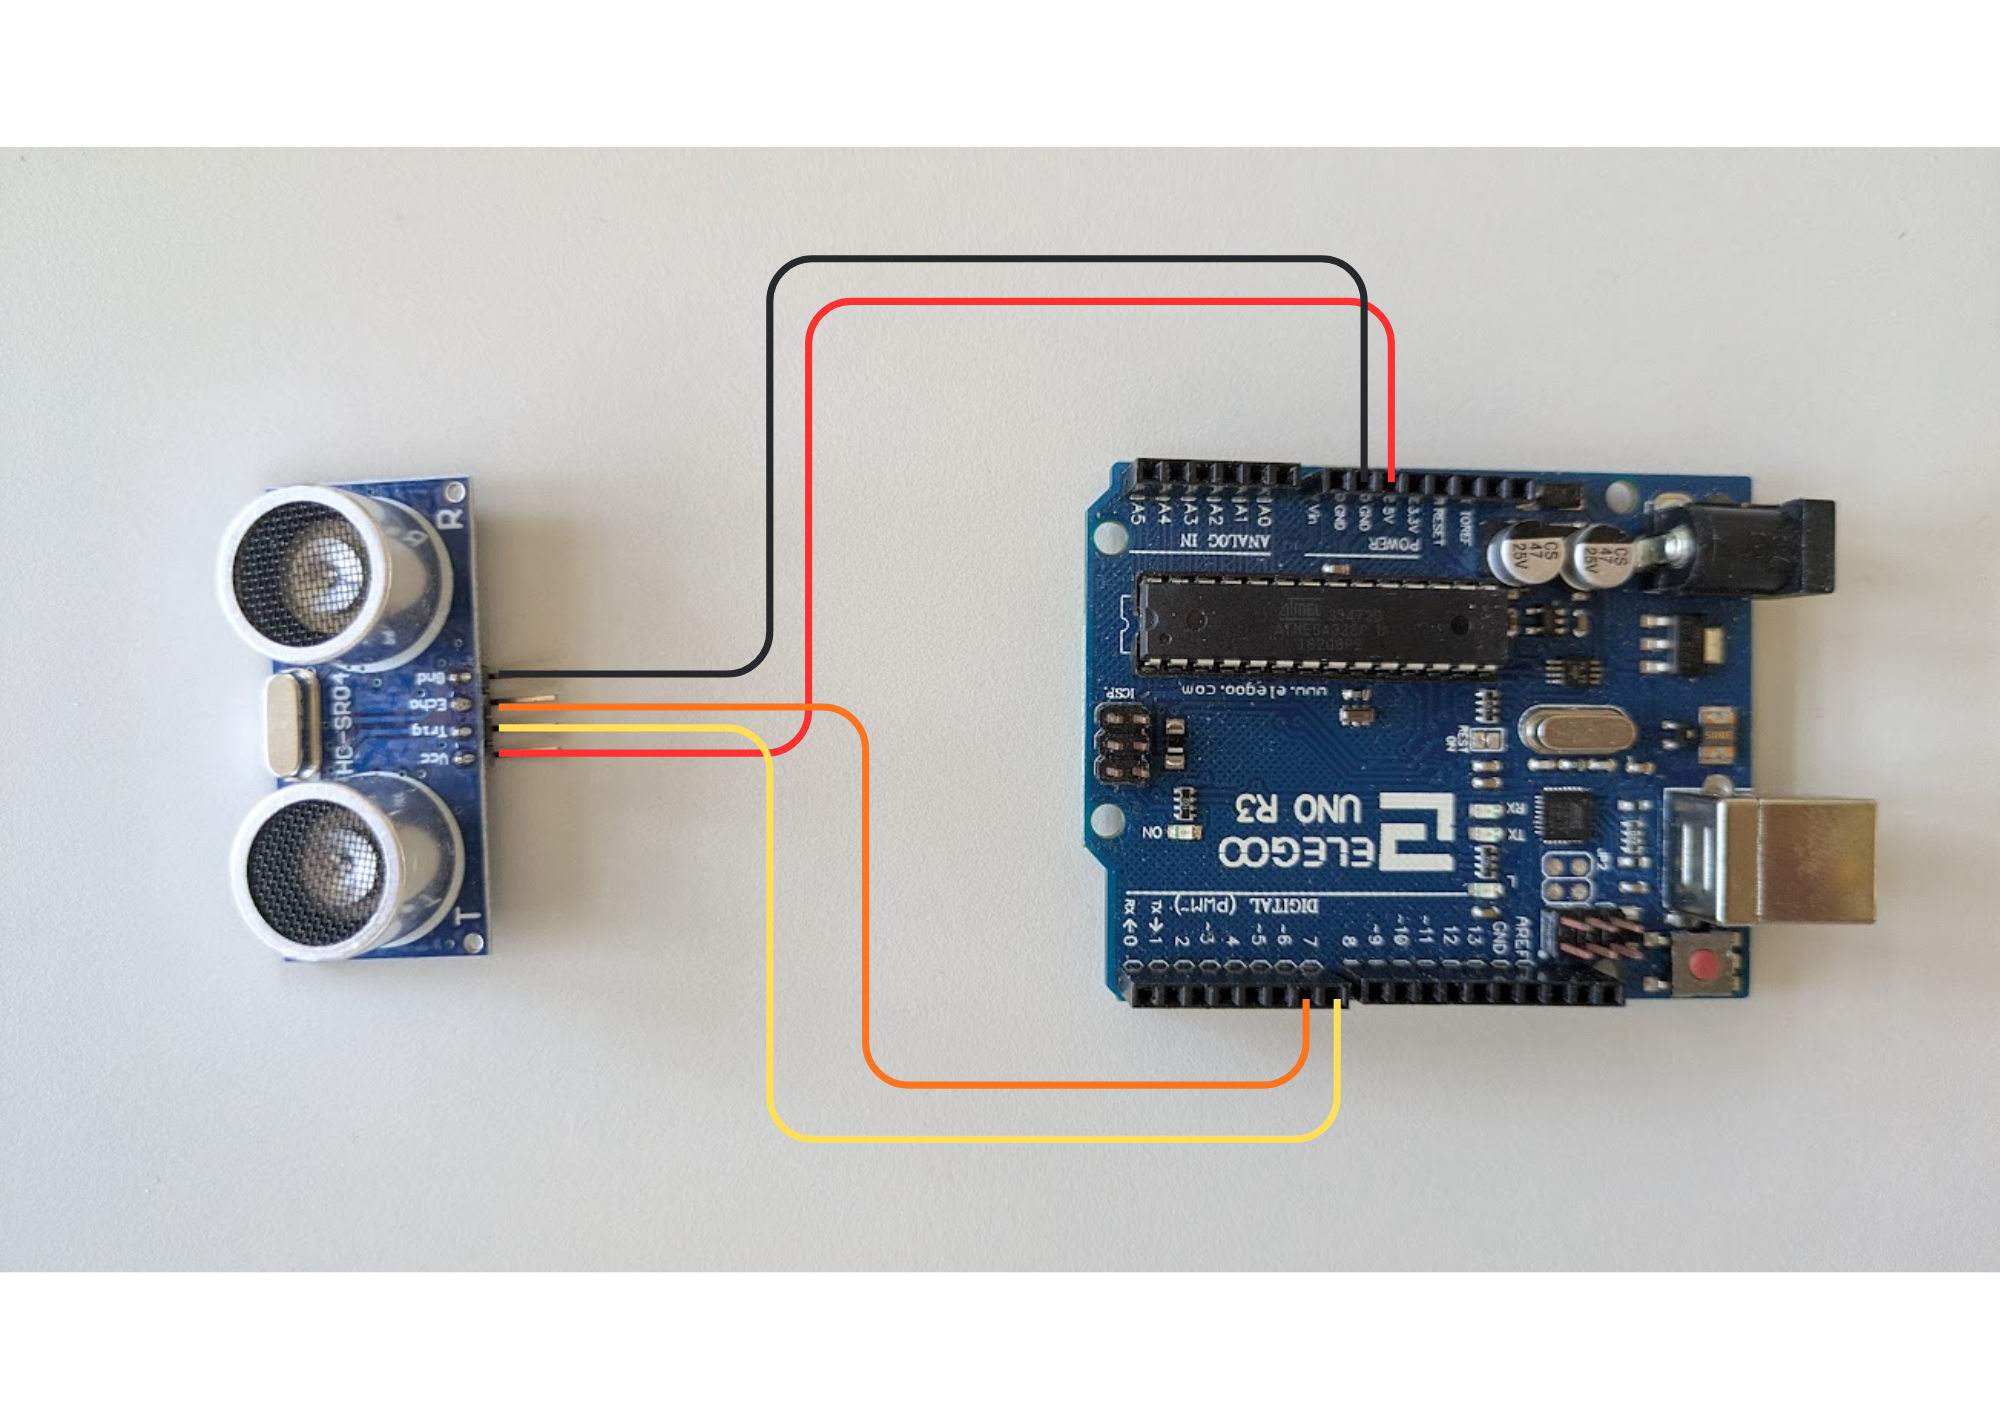
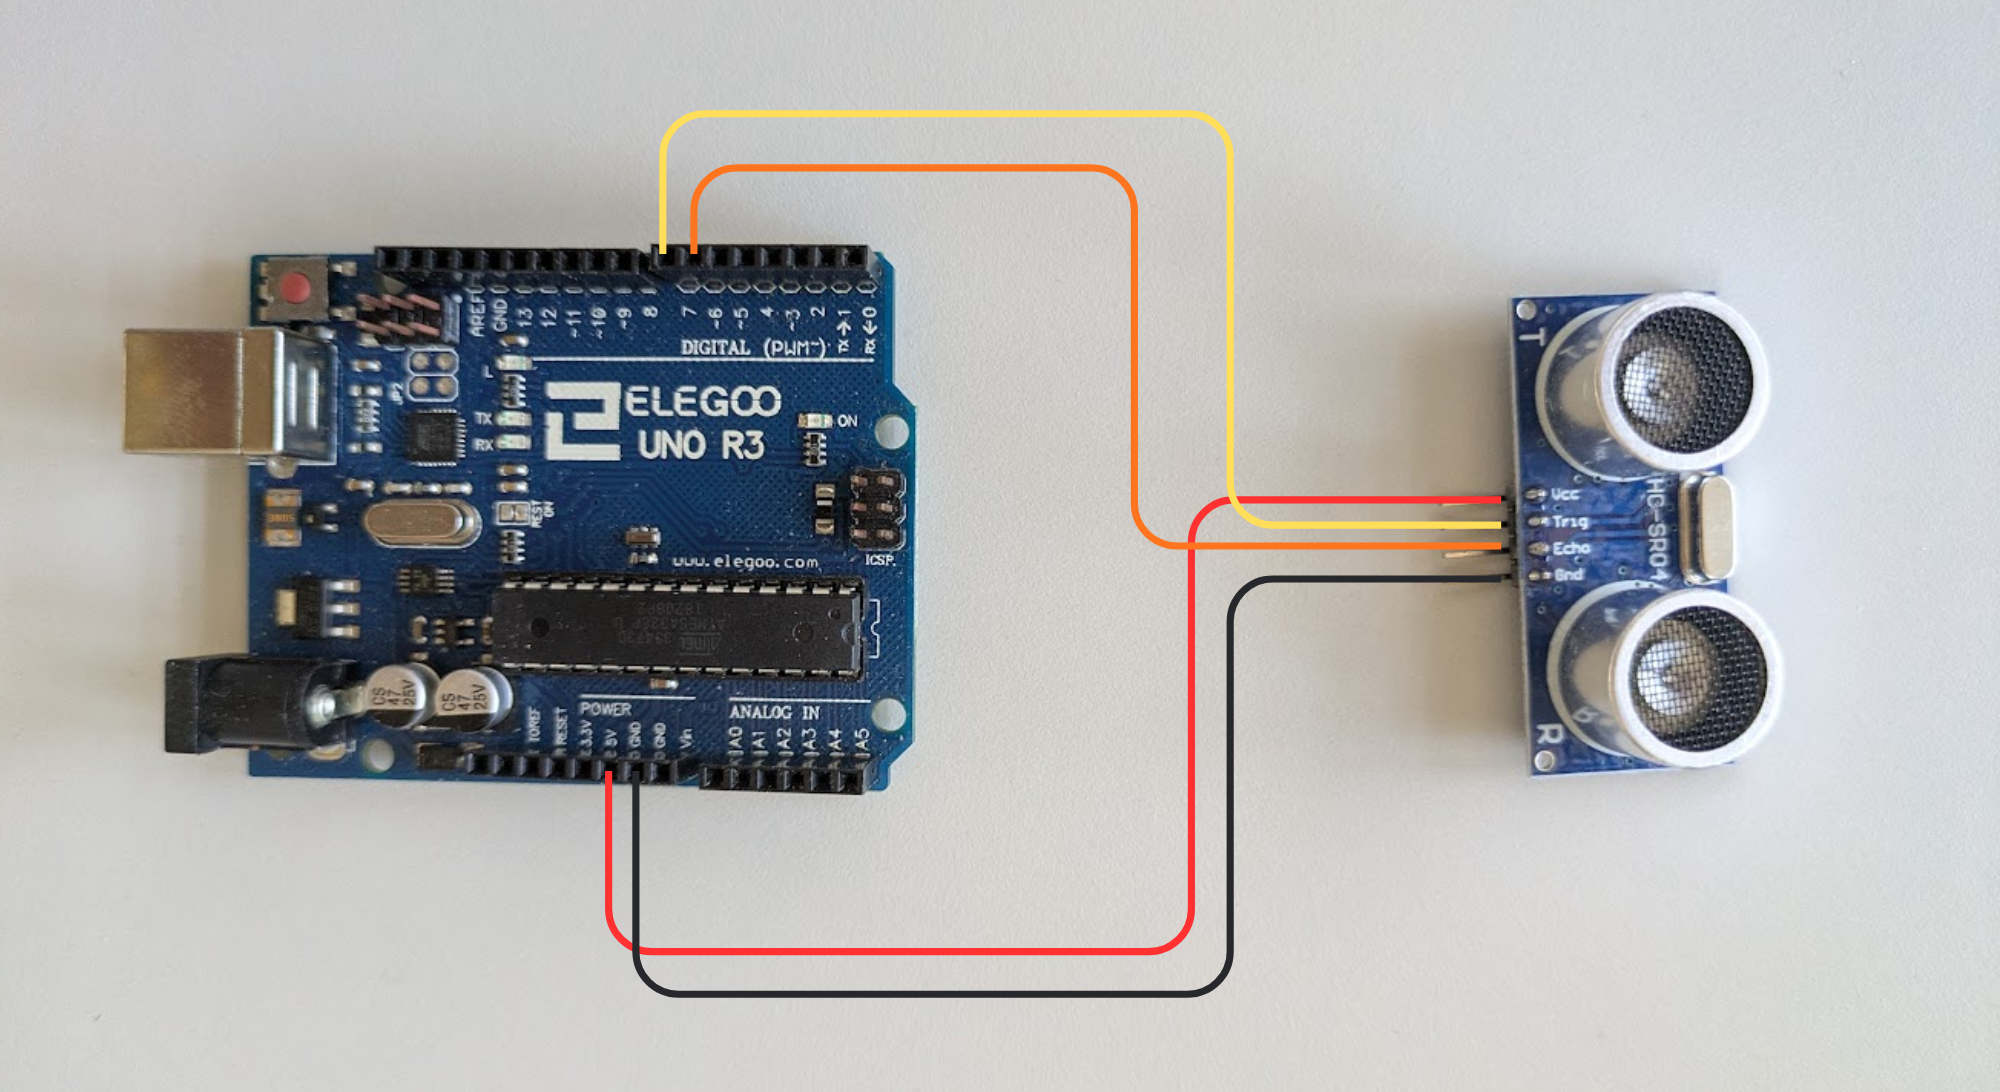
Improved Instruction

diff --git a/instructions.js b/instructions.js
@@ -3,28 +3,43 @@ let actualStep = 0;
 
 nextStepButtonClicked();
 
-function nextStepButtonClicked() {
+function previousStepButtonClicked() {
 
-    actualStep++;
+    if (actualStep > 1) {
+        actualStep--;
+        stepButtonClicked();
+    }
+}
+function nextStepButtonClicked(){
+    if(actualStep < 3){
+        actualStep++;
+        stepButtonClicked();
+    }
+}
+
+
+function stepButtonClicked() {
+
+    
 
     document.getElementById('actualStep').textContent = 'Schritt ' + actualStep;
 
     if (actualStep == 1) {
         document.getElementById('stepContentImage').innerHTML = '<img id="step1Image" src="img/instruction/step1.jpg" alt="Step 1 Image">';
-        document.getElementById('stepContentText').textContent = 'Verwendete Geräte: Funduino Uno, Ultraschallsensor HC-SR04.';
+        document.getElementById('stepContentText').innerHTML = '<h3>Verwendete Geräte:</h3><br><ul><li>Funduino Uno</li><li>Ultraschallsensor HC-SR04</li></ul>';
     }
     else if (actualStep == 2) {
         document.getElementById('stepContentImage').innerHTML = '<img id="step2Image" src="img/instruction/step2.png" alt="Step 2 Image">';
-        document.getElementById('stepContentText').textContent = 'Verbinde den Funduino mit dem Ultraschallsensor.';
+        document.getElementById('stepContentText').innerHTML = '<h3>Verbinde den Funduino mit dem Ultraschallsensor:</h3> <table><tr><th>Funduino</th><th>Ultraschallsensor</th></tr><tr><td>5V</td><td>VCC</td></tr><tr><td>GND</td><td>GND</td></tr><tr><td>D2</td><td>Trig</td></tr><tr><td>D3</td><td>ECHO</td></tr></table>';
     }
     else if (actualStep == 3) {
-        document.getElementById('stepContentImage').innerHTML = '';
-        document.getElementById('stepContentText').innerHTML = '<button id="flashButton" type="button" onclick="uploadFirmware()">Software flashen</button><p id="statusText" role="status">Bereit.</p><p>Lade nun die Software auf den Funduino hoch.</p>';
+        document.getElementById('stepContentImage').innerHTML = '<img id="step3Image" src="img/instruction/step3.jpg" alt="Step 3 Image">';
+        document.getElementById('stepContentText').innerHTML = '<h3>Alles in das Gehäuse einbauen und Software flashen</h3><br><p>An den Laptop anschließen und den Button klicken:<br></p><button id="flashButton" type="button" onclick="uploadFirmware()">Software flashen</button><p id="statusText" role="status"></p>';
     }
     else {
         document.getElementById('stepContentImage').innerHTML = '';
-        document.getElementById('stepContentText').textContent = 'Fertig! Du kannst nun den MotionTracer verwenden.';
-        document.getElementById('nextStepButton').style.display = 'none';
+        document.getElementById('stepContentText').innerHTML = '<h3>Fertig!</h3><p>Du kannst nun den MotionTracer verwenden.</p>';
+        //document.getElementById('nextStepButton').style.display = 'none';
     }
 
 

diff --git a/mystyle.css b/mystyle.css
@@ -375,7 +375,7 @@
 
   /* --- FOOTER STYLES --- */
   footer {
-      margin-top: auto;
+    margin-top: auto;
     background-color: #f3c776;
     color: #000000;
     padding: 40px 20px 20px 20px;
@@ -458,9 +458,55 @@
 
   .stepContent img {
     display: block;
-    max-width: min(80vw, 70%);
-    max-height: min(80vh, 70%);
+    max-width: min(80vw, 30%);
+    max-height: min(80vh, 30%);
     width: auto;
     height: auto;
-    object-fit: contain;
+    object-fit: scale-down;
+  }
+
+  .stepContentImageRow {
+    margin-top: 30px;
+    text-align: center;
+    border: 1px solid var(--border-color);
+    max-height: min(80vh, 30%);
+    width: 1%;
+    white-space: nowrap;
+  }
+
+  .stepContentImageRow img {
+    display: block;
+    width: auto;
+    height: auto;
+    max-width: min(90vw, 40rem);
+    max-height: min(80vh, 30rem);
+    object-fit: scale-down;
+  }
+
+  .stepContentTextRow {
+    margin-top: 30px;
+    font-size: 1rem;
+    text-align: left;
+    border: 1px solid var(--border-color);
+  }
+
+  .stepContentTextRow ul {
+    padding-left: 1.5rem;
+    list-style: disc;
+  }
+
+  #stepTable {
+    width: 100%;
+    border: 1px solid var(--border-color);
+  }
+
+  #step1Image,
+  #step2Image,
+  #step3Image,
+  #step4Image,
+  #step5Image {
+    margin-top: 10px;
+    margin-right: 10px;
+    margin-bottom: 10px;
+    margin-left: 10px;
   }

diff --git a/instructions.html b/instructions.html
@@ -14,14 +14,28 @@
 
     <div class="card instructions-card">
         <container class="steps">
-            <h2 id="actualStep">Schritt 1</h2>
+            <table id="stepTable">
+                <thead>
+                    <tr>
+                        <th><h2 id="actualStep">Schritt 1</h2></th>
+                        <th></th>
+                    </tr>
+                </thead>
+                <tbody id="stepTableBody">
+                    <tr>
+                    <td class="stepContentImageRow"><p id="stepContentImage"></p></td>
+                    <td class="stepContentTextRow"><div id="stepContentText"></div></td>
+                    </tr>
+                </tbody>
+            </table>
+            
 
-            <p id="stepContentImage" class="stepContent"> </p>
-            <div id="stepContentText" class="stepContent"></div>
+            
             
         </container>
         
         <div class="instruction-actions">
+            <button id="previousStepButton" type="button" onclick="previousStepButtonClicked()">Vorheriger Schritt</button>
             <button id="nextStepButton" type="button" onclick="nextStepButtonClicked()">Nächster Schritt</button>
         </div>
     </div>
